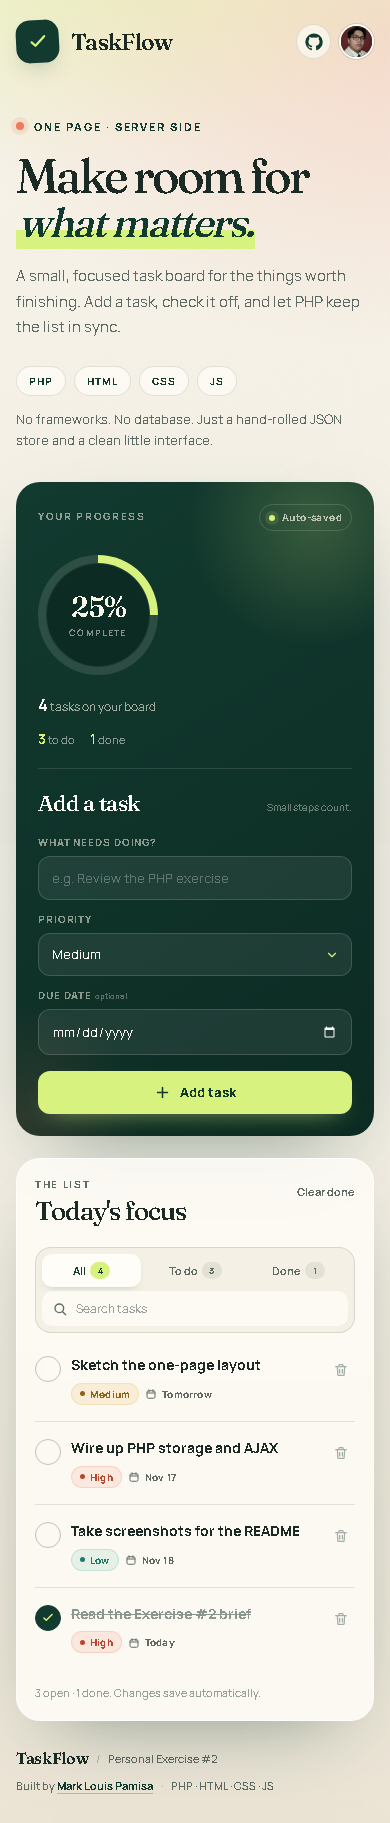
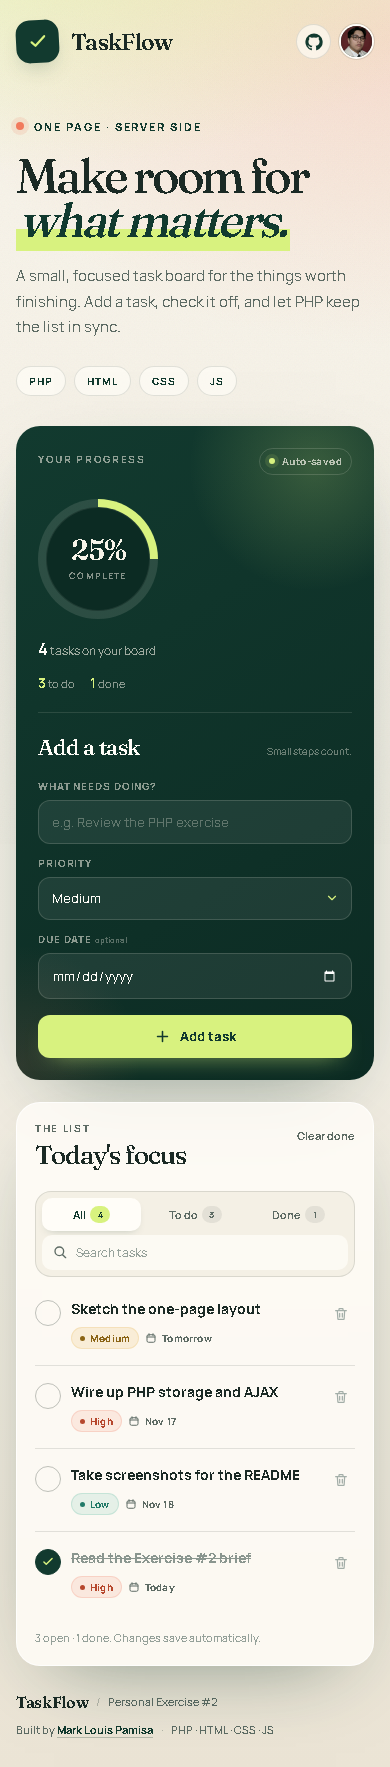
Remove the framework and database note from the hero

diff --git a/assets/styles.css b/assets/styles.css
@@ -323,14 +323,6 @@ img {
   letter-spacing: 0.1em;
 }
 
-.hero-note {
-  margin: 18px 0 0;
-  color: var(--ink-soft);
-  font-size: 0.79rem;
-  line-height: 1.72;
-  text-align: right;
-}
-
 /* Dashboard --------------------------------------------------------------- */
 
 .dashboard {
@@ -1180,12 +1172,6 @@ img {
 
   .tech-stack {
     justify-content: flex-start;
-  }
-
-  .hero-note {
-    max-width: 440px;
-    margin-top: 13px;
-    text-align: left;
   }
 
   .summary-panel {

diff --git a/index.php b/index.php
@@ -502,9 +502,6 @@ if (isset($_GET['flash']) && is_string($_GET['flash']) && isset($flashMessages[$
           <span>CSS</span>
           <span>JS</span>
         </div>
-        <p class="hero-note">
-          No frameworks. No database. Just a hand-rolled JSON store and a clean little interface.
-        </p>
       </div>
     </section>
 
